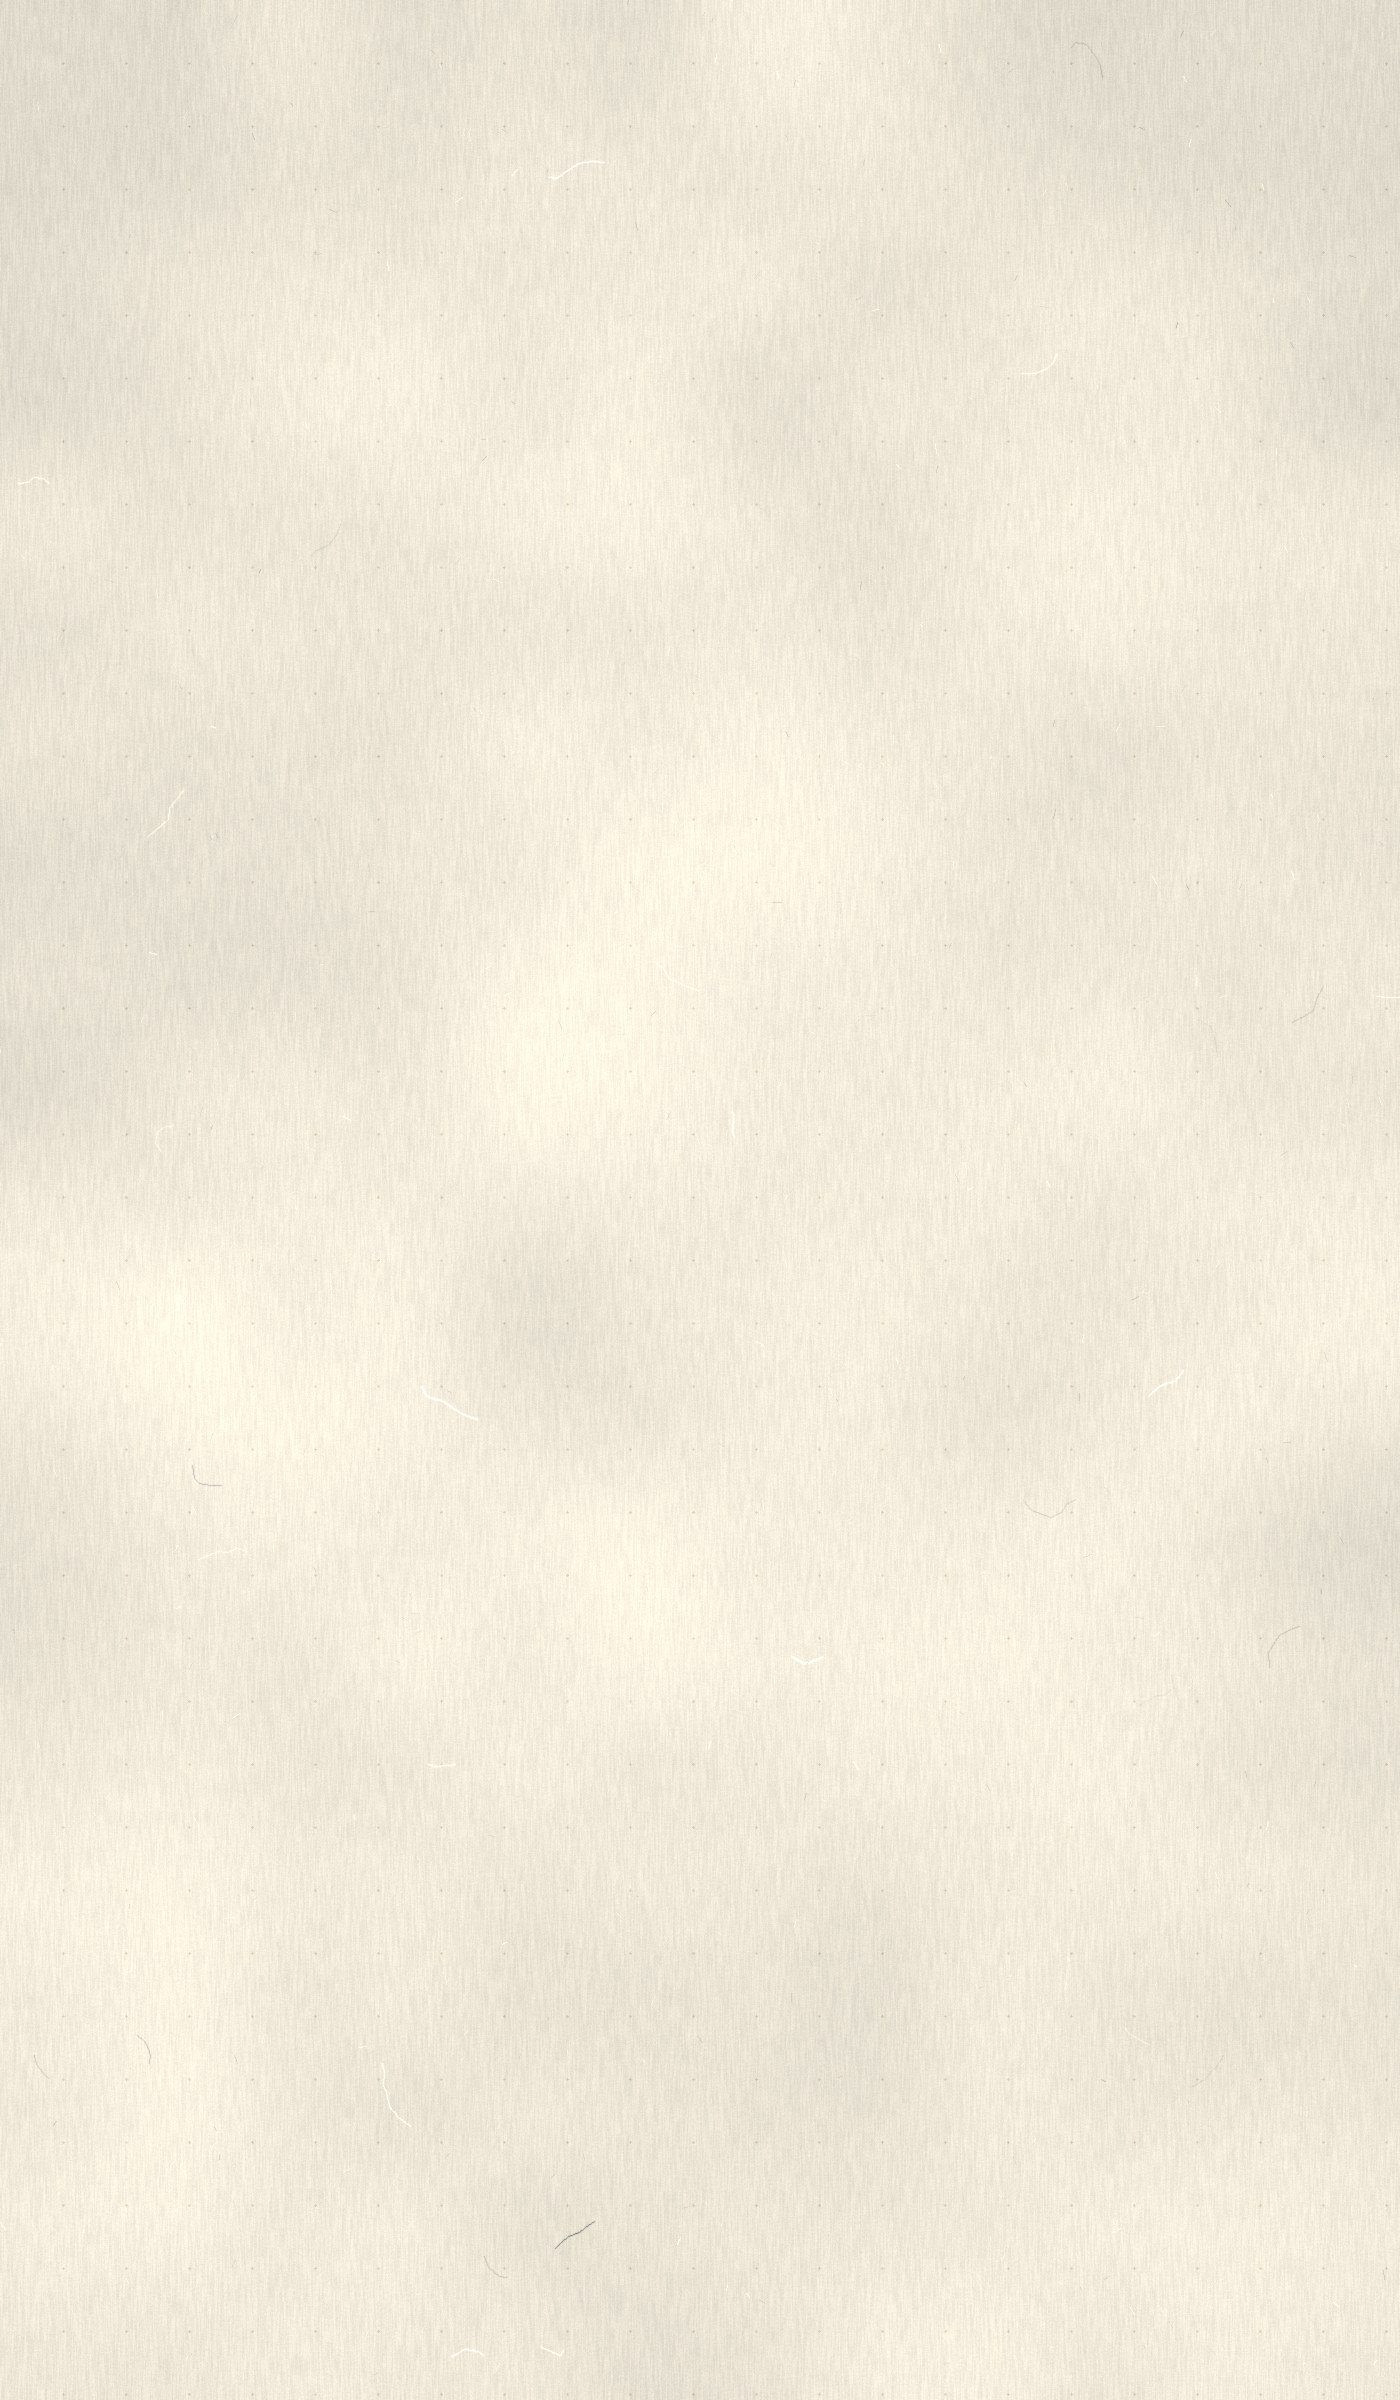
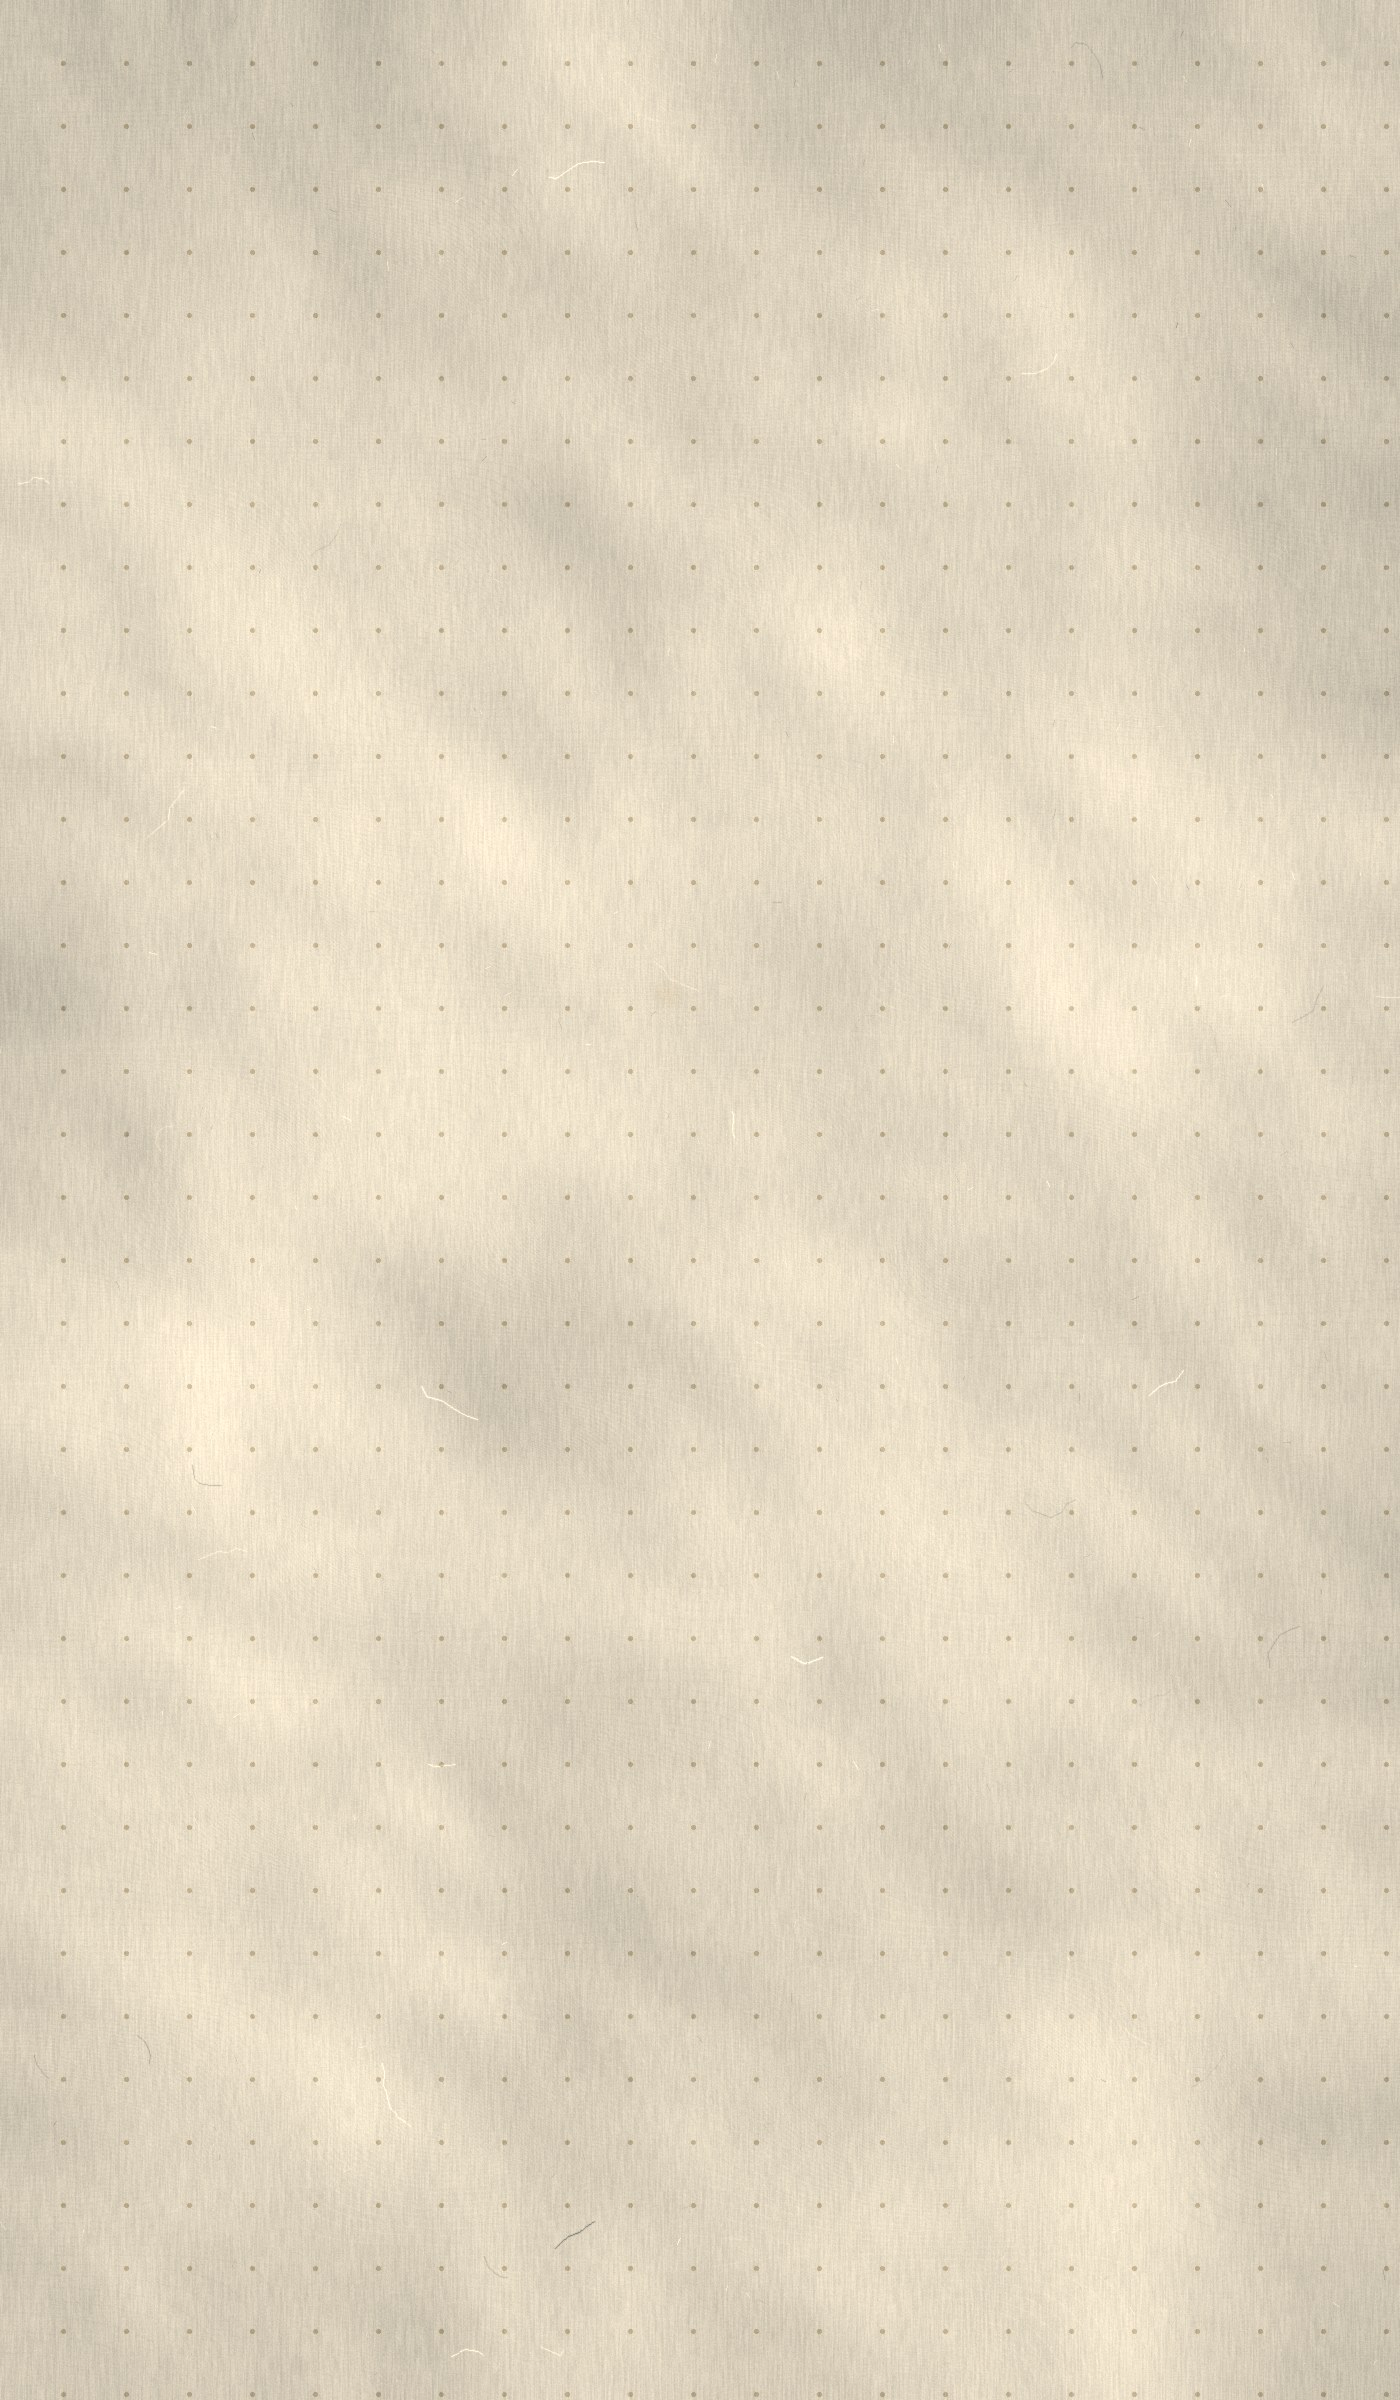
fix(paper): 干净纸太白太平 —— 补「纸不是绝对平的」那一层,点阵放大
把揉皱污渍去掉之后,plain 那几档的动态范围从牛皮的 35 掉到 22、均值 229~243。
在 OLED 的近黑桌面上,那就是一块白色矩形 —— 没有厚度也没有物质感。
我上一轮把「脏」和「厚度」一起去掉了。

## 新增 undulate:干净纸唯一的明暗来源

纯低频噪声取梯度打方向光。和 crumple 的区别是**它不画线** ——
crumple 画线所以有折痕,这里只有缓慢的明暗过渡,没有任何一条边。
要的是「纸不是几何平面」,不是「纸被折过」。

配合底色压深约 12%、边缘磨损从 0.14 提到 0.34:

    均值    229~243 → 209~224   (牛皮 157 作参照)
    动态范围  22~24  → 28~36    (牛皮 35)

## 点阵的点太小,真机上完全看不见

半径写的是 W//900 = 1px,经过 JPEG 和缩放就没了。改成 W//560 = 2px 并加深墨色,
格线对比 34 → 43 级。方格 28 级、横线 23 级。

## 还没定的一件事

1:1 看纸面有明显**竖向条纹** —— 主纤维层把噪声纵向拉了 14 倍,
接近拉丝金属而不是毡合的纸。真纸有丝流方向,但 14:1 可能过了。

**这次不自己改。** 上一轮就是靠我在渲染图上判断,结果判断反了(见「织纹」那次)。
等真机上看过再决定要不要把 14 降到 6。

diff --git a/YanApp/scripts/generate-paper.py b/YanApp/scripts/generate-paper.py
@@ -173,6 +173,7 @@ def rand_polyline(n=5, horizontal=True, margin=0.12):
 def make(name, base_rgb, *, out_dir=DEFAULT_OUT, keep_png=False,
          fiber=0.055, fiber_cross=0.15, cloud=0.04, creases=3, crumple=0,
          crumple_depth=0.16, flecks=1500, hairs=90, hair_len=(12, 40), stains=3, foxing=18,
+         undulate=0,
          wear=0.55, crease_depth=0.10, rule=None, rule_ink=(0.10, 0.12, 0.16), seed=7):
     global rng
     rng = np.random.default_rng(seed)
@@ -244,6 +245,21 @@ def make(name, base_rgb, *, out_dir=DEFAULT_OUT, keep_png=False,
         ridge = np.clip(shade, 0, None)
         v += ridge * 0.16 * wear
 
+    # 纸面起伏:一张平摊的纸也不是几何平面,它有很缓的波。
+    #
+    # 这一层是**干净纸唯一的明暗来源**。把揉皱污渍去掉之后,plain 那几档的
+    # 动态范围从牛皮的 35 掉到 22 —— 在 OLED 的近黑桌面上,均值 233、起伏 23
+    # 的表面就是一块白色矩形,没有厚度也没有物质感。用户的判断是「还是有点不自然」。
+    #
+    # 和 crumple 的区别:crumple 画线 → 有折痕;这里是纯低频噪声取梯度 →
+    # 只有缓慢的明暗过渡,没有任何一条边。要的就是「纸不是绝对平的」,不是「纸被折过」。
+    if undulate:
+        hf = fbm(H, W, 3, 1100) - 0.5
+        gy, gx = np.gradient(hf)
+        g = np.cos(-0.7) * gx + np.sin(-0.7) * gy
+        peak = np.abs(g).max()
+        v += (g / peak if peak > 1e-9 else g) * undulate
+
     # 边缘磨损:四边略暗、略脏,页角更明显
     yy, xx = np.mgrid[0:H, 0:W].astype(np.float32)
     ex = np.minimum(xx, W - 1 - xx) / (W * 0.5)
@@ -305,7 +321,7 @@ def make(name, base_rgb, *, out_dir=DEFAULT_OUT, keep_png=False,
         gd = ImageDraw.Draw(grid)
         step = int(W / 22)                      # 一页横向约 22 格,和实物手账接近
         if rule == 'dot':
-            r_ = max(1, W // 900)
+            r_ = max(2, W // 560)   # 1px 的点在真机上完全消失,实测过
             for gx in range(step, W, step):
                 for gy in range(step, H, step):
                     gd.ellipse([gx - r_, gy - r_, gx + r_, gy + r_], fill=255)
@@ -343,35 +359,36 @@ def make(name, base_rgb, *, out_dir=DEFAULT_OUT, keep_png=False,
 # 去掉的是:揉皱、折痕、污渍、foxing 锈斑、重磨损。
 CLEAN = dict(crumple=0, crumple_depth=0, creases=0, crease_depth=0, stains=0,
              fiber_cross=0.12,      # 高了就成经纬织纹,见 make() 里那段
-             hair_len=(6, 16))      # 长毛丝在素纸上像头发
+             hair_len=(6, 16),      # 长毛丝在素纸上像头发
+             undulate=0.10)         # 干净纸唯一的明暗来源,见 make() 里那段
 
 # 三档,对着参考图里的色域来:米白稻草 / 黄棕纸袋 / 红棕深牛皮。
 # crumple 是横贯整页的折线条数 —— 它决定「揉过几次」。
 # 改参数请连注释里的判断一起看:大部分默认值是排除了某个具体的翻车才定的。
 PAPERS = [
     # 素白:最干净的一档,给「打开就是一张空白的好纸」那个定案用
-    ('plain-ivory', (247, 243, 234), dict(
-        CLEAN, fiber=0.030, cloud=0.014, flecks=700, hairs=45,
-        foxing=0, wear=0.14, seed=101)),
+    ('plain-ivory', (232, 226, 213), dict(
+        CLEAN, fiber=0.034, cloud=0.030, flecks=700, hairs=45,
+        foxing=0, wear=0.34, seed=101)),
     # 米黄笺纸:暖一点,长时间看不刺眼,是手账最常见的底
-    ('plain-cream', (241, 231, 210), dict(
-        CLEAN, fiber=0.034, cloud=0.018, flecks=1100, hairs=60,
-        foxing=2, wear=0.18, seed=102)),
+    ('plain-cream', (226, 213, 187), dict(
+        CLEAN, fiber=0.038, cloud=0.034, flecks=1100, hairs=60,
+        foxing=2, wear=0.38, seed=102)),
     # 浅灰:冷底,给照片多的页 —— 暖纸会把彩色照片压得发黄
-    ('plain-mist', (234, 233, 228), dict(
-        CLEAN, fiber=0.028, cloud=0.013, flecks=600, hairs=35,
-        foxing=0, wear=0.13, seed=103)),
+    ('plain-mist', (220, 219, 213), dict(
+        CLEAN, fiber=0.032, cloud=0.028, flecks=600, hairs=35,
+        foxing=0, wear=0.32, seed=103)),
     # 带格线的三档。手账纸真实世界里最常见的就是这几种,
     # 而印刷格线是「这是纸」最强的信号(见 make() 里那段)
-    ('dot-cream', (243, 236, 220), dict(
-        CLEAN, fiber=0.030, cloud=0.014, flecks=800, hairs=40,
-        foxing=1, wear=0.15, rule='dot', seed=111)),
-    ('grid-ivory', (247, 244, 236), dict(
-        CLEAN, fiber=0.026, cloud=0.012, flecks=600, hairs=30,
-        foxing=0, wear=0.13, rule='grid', rule_ink=(0.055, 0.065, 0.085), seed=112)),
-    ('line-cream', (244, 237, 221), dict(
-        CLEAN, fiber=0.030, cloud=0.014, flecks=700, hairs=35,
-        foxing=1, wear=0.15, rule='line', rule_ink=(0.07, 0.08, 0.105), seed=113)),
+    ('dot-cream', (228, 217, 195), dict(
+        CLEAN, fiber=0.036, cloud=0.032, flecks=800, hairs=40,
+        foxing=1, wear=0.36, rule='dot', rule_ink=(0.15, 0.17, 0.21), seed=111)),
+    ('grid-ivory', (233, 228, 216), dict(
+        CLEAN, fiber=0.032, cloud=0.028, flecks=600, hairs=30,
+        foxing=0, wear=0.32, rule='grid', rule_ink=(0.075, 0.085, 0.110), seed=112)),
+    ('line-cream', (229, 218, 197), dict(
+        CLEAN, fiber=0.036, cloud=0.032, flecks=700, hairs=35,
+        foxing=1, wear=0.36, rule='line', rule_ink=(0.09, 0.10, 0.13), seed=113)),
     ('kraft-light', (223, 206, 176), dict(
         fiber=0.05, cloud=0.035, creases=1, crumple=26, crumple_depth=0.09,
         flecks=2600, hairs=120, stains=2, foxing=22, wear=0.5,
